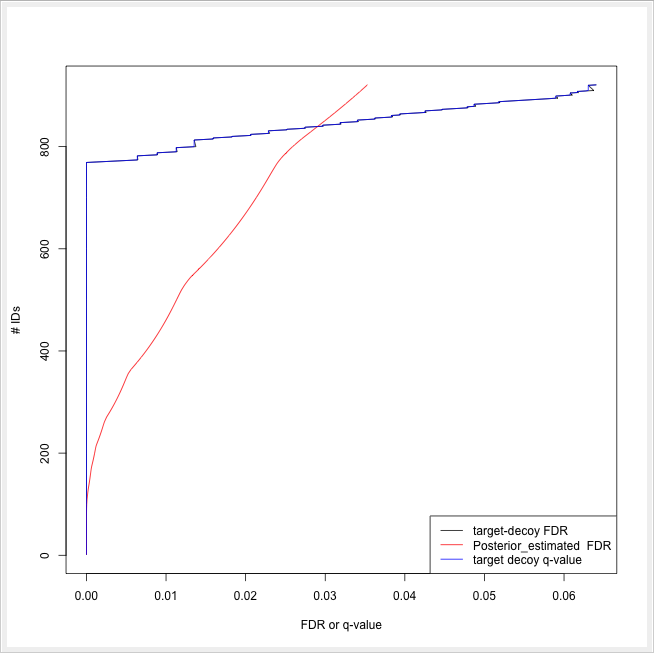
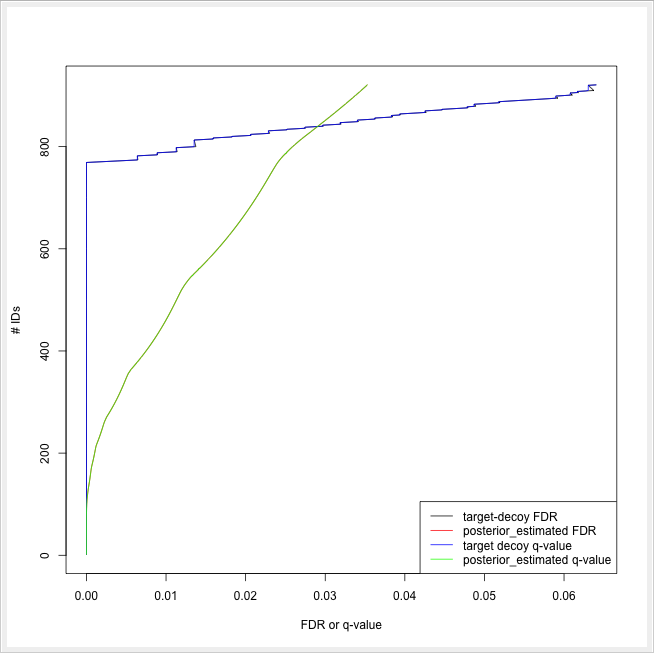
addressing Timo's comments about protein inference part.

Changed region(s): [[0.6422, 0.7645, 0.948, 0.8869], [0.4281, 0.2141, 0.4587, 0.2446]]

diff --git a/Handout/protein_inference.tex b/Handout/protein_inference.tex
@@ -57,13 +57,37 @@ For downstream analysis on the protein ID level in KNIME, it is again necessary 
 
 \subsubsection{ROC curve of protein ID}
 
-\KNIMENODE{ROC Curve} already provides the functionality of drawing ROC curves for binary classification problems. In this case, we accept decoy proteins as false positives and target proteins as true positives. Therefore, an extra column with the class values (target and decoy proteins) has to be appended beforehand in the \KNIMENODE{Rule engine} node. 
+ROC Curves (Receiver Operating Characteristic curves) are graphical plots that visualize sensitivity (true-positive rate) 
+against fall-out (false positive rate). They are often used to judge the quality of a discrimination method like e.g., 
+peptide or protein identification engines.
+When analyzing data sets without ground-truth (i.e., we don't know which target identifications are true, which are false,), 
+we accept decoy proteins as false positives and target proteins as true positives.
+\KNIMENODE{ROC Curve} already provides the functionality of drawing ROC curves for binary classification problems. 
+Before applying this node, an extra column with the class values (target and decoy proteins) has to be appended in 
+the \KNIMENODE{Rule engine} node. 
+
+As we mentioned above, the classification is not based on the real truth or falsehood. 
+Therefore, the so called pseudo-ROC Curve can be generated which plot the number of target 
+proteins against the false discovery rate (FDR). 
+The FDR is approximated by using the target-decoy estimate in order to distinguish
+true IDs from false IDs by separating target IDs from decoy IDs.
+This is similar to the original notion of a ROC curve except that usually the true positives are not known.
+
 
 \subsubsection{Posterior probability and FDR of protein IDs}
-Because Fido produces the posterior probability of each protein as the output, we can calculate an estimated FDR for the protein IDs which then can be compared with the target-decoy protein FDR. The calculation is done by using a simple R script in \KNIMENODE{R snippet}. 
-First, the target decoy protein FDR is computed as the proportion of decoy proteins among all significant protein IDs. Then posterior probabilistic-driven FDR is estimated by the average of the posterior error probability (1 - posterior probability) of all significant protein IDs. We can also calculate the $q$-value as the minimum FDR value of any data set that includes the current protein ID. 
-We plot the protein ID results versus two different kinds of FDR estimates in \KNIMENODE{R View(Table)} (see Figure \ref{fig:proteinfdr}).
+ROC curves illustrate the discriminative capability of the scores of IDs. 
+In the case of protein identifications, Fido produces the posterior probability of each protein as the output score.
+However, a perfect score should not only be highly discriminative (distinguishing true from false IDs), 
+it should also be ``calibrated'' (for probability indicating that all IDs with reported posterior probability scores of 95\% 
+should roughly of 5\% probability be false. This implys that the estimated number of false positives can be computed as the sum
+of posterior error probability ( = 1 - posterior probability), further an posterior probability estimated FDR is also possible to be computed. 
+Therefore, we can plot calibration curves to help us visualize the
+quality of the score (when the score is interpreted as a probability as Fido does).
 
+The calculation is done by using a simple R script in \KNIMENODE{R snippet}. 
+First, the target decoy protein FDR is computed as the proportion of decoy proteins among all significant protein IDs. 
+Then posterior probabilistic-driven FDR is estimated by the average of the posterior error probability of all significant protein IDs. Since FDR is the property for a group of protein IDs, we can also calculate a local property: the $q$-value of a certain protein ID by the minimum value of FDRs of any groups of protein IDs that contain this protein ID. 
+We plot the protein ID results versus two different kinds of FDR estimates in \KNIMENODE{R View(Table)} (see Figure \ref{fig:proteinfdr}).
 
 \begin{figure}[htbp]
   \centering
@@ -74,8 +98,9 @@ We plot the protein ID results versus two different kinds of FDR estimates in \K
 
 \begin{figure}[htbp]
   \centering
-  \includegraphics[width=0.85\textwidth]{graphics/protein_inference/proteinFDR.png}
-  \caption{Statistical validation results of protein IDs. The accumulated number of protein IDs is plotted on two kinds of scales: target-decoy protein FDR and Fido posterior probability estimated FDR. A significant number of protein IDs with $q$-value smaller than 0.05 are identified.}
+  \includegraphics[width=0.45\textwidth]{graphics/protein_inference/proteinFDR.png}
+  \caption{the pseudo-ROC Curve of protein IDs. The accumulated number of protein IDs is plotted on two kinds of scales: target-decoy protein FDR and Fido posterior probability estimated FDR. The largest value of posterior probability estimated FDR is already smaller than 0.04.}
   \label{fig:proteinfdr}
 \end{figure}
 
+
